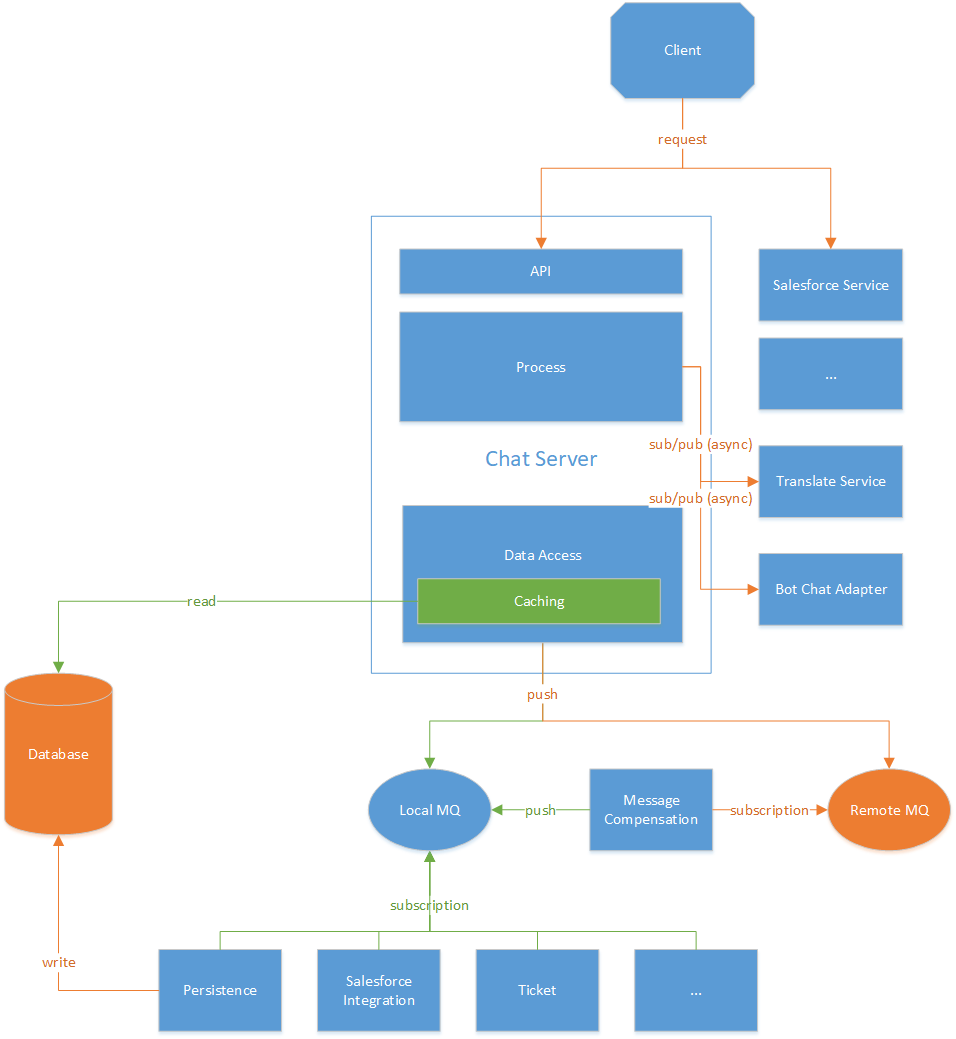
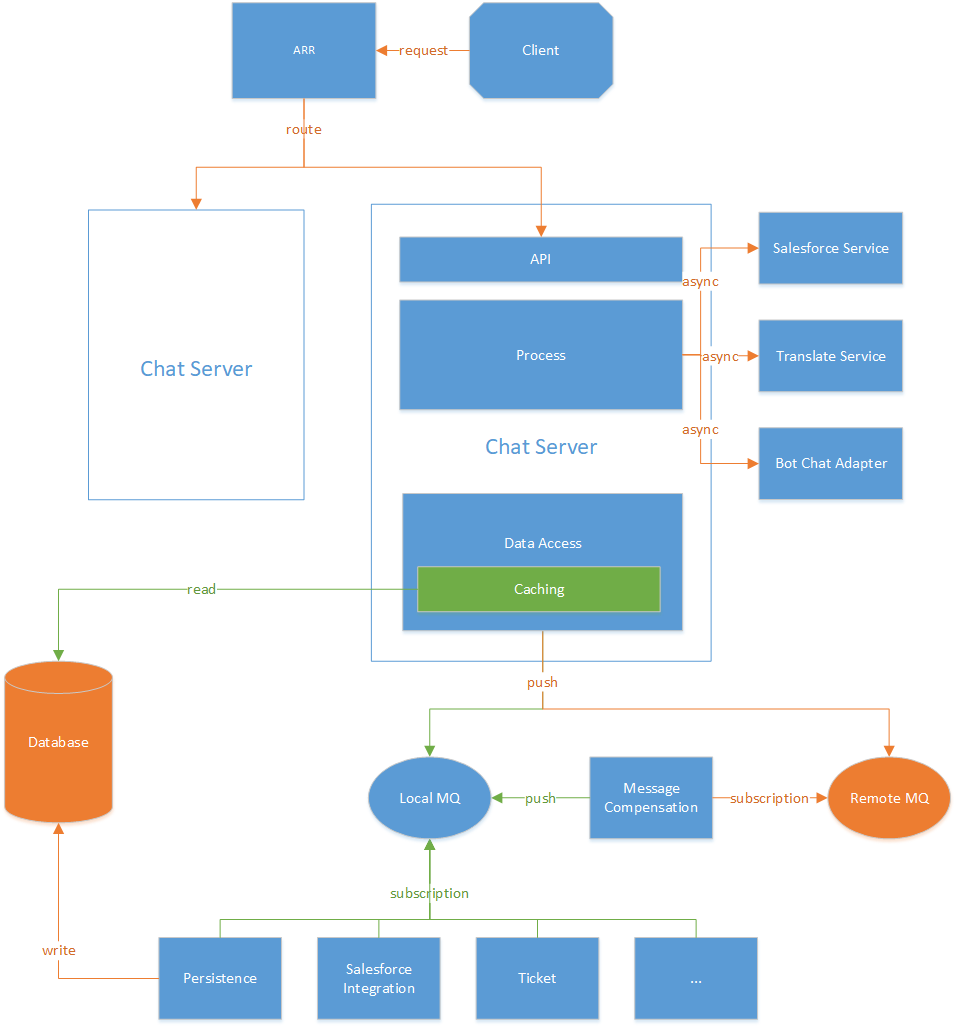
update chatserver-arch.md

diff --git a/she-ji/chat-server.md b/she-ji/chat-server.md
@@ -16,6 +16,7 @@
 2. 降低ChatServer对数据库的依赖, 使Chat Server可以无数据库运行
   - 配置数据使用缓存, Chat Server直接访问缓存
   - 写记录的同时写一条log, Chat Server根据log进行缓存的更新
+  - 
   + 限于实际情况, 目前版本保证用户聊天业务能够正常进行, 因此以下的功能在无数据库状态下不能支持:
     - Agent Console查看历史
     - Control Panel修改配置信息, 查看报表等
@@ -31,15 +32,17 @@
 
 ![topology](topology.png)
 
-1. 在MaxOn功能基础上, 部署分为主服务器, 以及备用服务器, 异地跨机房部署
-2. 主服务器上的各个主机在一个局域网内
+1. 在MaxOn功能基础上, 部署分为主部署, 以及MaximumOn部署, 异地跨机房部署
+2. 主部署上的各个主机在一个局域网内
   - 多套Web Server做Load-balance, 使用IIS ARR做load-balance控制器, 根据站点进行分流
+  - 多个ARR节点采用NLB做HA, ARR服务对SiteId进行分流, 不同的站点分到对应的Web Server上
   - 本地有一个MQ Server可以做消息队列管理
   - 本地有一个数据库服务存储数据
-3. 副服务器上部署一套程序
+3. 副部署因为实际使用比较少, 可以只部署一套程序, 不做Loadbalance
   - 部署一套Web应用
+  - 部署一个数据库服务, 从主部署中同步配置数据
   - 本地的MQ Server作为副服务器的消息队列管理
-4. 远程有一个MQ Service, 可以在本地消息服务失效时使用(MaxOn 主副使用同一个远程的MQ Server)
+4. 远程有一个MQ Service, 可以在本地消息服务失效时使用(主副部署可以使用同一个远程的MQ Server)
 
 
 ## ChatSrver架构 
@@ -97,14 +100,17 @@ Chat Server应用程序分3个模块: API, Process, DataAccess
     - Salesforce集成, Zendesk集成
 
 ### Load-balance
-1. Load-balance控制器(ARR)监控集群中的所有服务, 能够知道所有机器的服务状态
-2. Load-balance控制器采用相同的逻辑进行路由, 使得请求不管是到哪一台Load-balance控制器最后的路由结果都是一致的
+1. 集群中多台ARR服务器采用NLB对外提供统一的访问IP, 
+  - NLB配置为active-standby模式, 只有在一台ARR服务器出状况以后才会使用另一台ARR服务器
+2. Load-balance控制器(ARR)监控集群中的所有服务, 能够知道所有机器的服务状态
+3. Load-balance控制器采用相同的逻辑进行路由, 使得请求不管是到哪一台Load-balance控制器最后的路由结果都是一致的
   - 在添加节点时需要手工修改路由的计算逻辑参数
   - 在节点出问题以后会采用同样的分流逻辑来计算, 即将原来分到这个节点上的请求按照一定的逻辑均分到其他可用的节点
   - 在节点恢复以后, 再将原来是该节点的请求重新分配到该节点
-3. 单个Chat Server 应用程序作为Load-balance下面的一个节点可以关机, 使流量导向其他现在可用的节点
+  - 不在列表配置列表中的则按照特定的分流逻辑来计算(如取模)
+4. 单个Chat Server 应用程序作为Load-balance下面的一个节点可以关机, 使流量导向其他现在可用的节点
   - 在某一个Site从一个节点切到另一个节点时, 客户端应该在新的节点恢复聊天/访客信息
-4. 多个Chat Server产生的消息需要做去重(如chatEnded事件对于同一个id只会处理一次)
+5. 多个Chat Server产生的消息需要做去重(如chatEnded事件对于同一个id只会处理一次)
 
 
 ## 应用发布升级
@@ -198,11 +204,7 @@ MQ Name的定义由具体事件的namespace来定义, 如comm100.chatEnded, comm
 ### Service Broker Queue Distributor
 
   针对某些MQ可能会有很多的消费者需要同时消费, 在其上面会先有一个分发器的消费者消费一级事件, 然后再根据实际的业务分发二级的消息到MQ, 分发器可以根据站点配置决定是否要生成具体的二级事件, 如某一个站点没有开启Salesforce功能, 则不生成comm100.chatEnded.salesforce的message, 分发器实际为一级事件的消费者, 每一个处理二级事件的消费者实际上需要在分发器的配置上增加一个处理逻辑(主要为判断是否需要分发二级事件的判断逻辑, 以及二级事件的名称)
-
-### Service Broker Queue Consumer
-
-  采用waitfor命令获取消息
-
+  
 ### Queue 定义
 
 1. chat.end
@@ -265,8 +267,81 @@ MQ Name的定义由具体事件的namespace来定义, 如comm100.chatEnded, comm
 9. invitation.log 
 10. visit.log
 11. conversion.log
-12. agent.preference
-13. visitor.ban
+12. agent.savePreference
+13. agent.ban
 
 
+## 功能范围
+1. MaximumOn功能
+  - direct link/bbs code支持maximum on
+    - 从chat server分离访客端的前端功能 (下载js, 打开chat window)
+  - 副服务器支持所有的功能
+    - salesforce
+    - zendesk
+    - join.me
+    - update preference
+    - attach ticket
+  - 切换过程优化
+    - 从agnet和visitor两点进行聊天消息恢复, 避免丢掉聊天消息
+  - bot
+    - 同步bot配置数据, 使服务器可以支持bot功能
+    - 回迁bot数据(主要回迁消息队列的内容)
 
+
+2. 异步采用消息队列
+  - 数据库持久化
+  - 第三方集成调用
+  - 发邮件
+  - Webhook
+
+3. Chat Server支持无库运行
+  - 访客, 使用guid, 而不使用visitorId
+  - 聊天, 使用guid, 而不是从库里生成聊天使用id
+  - 配置缓存
+    - ChatServer启动时就加载最近一个月使用过或者注册的站点配置数据
+    - 站点的配置更新以后写一条log, ChatServer定时读取这个log记录, 更新站点的配置数据
+  - 消息队列
+    - Service Broker
+
+4. 锁颗粒度降低, 使用concurrent下面的数据结构
+  - 使用concurrentDictionary 以及 concurrentQueue
+  - 锁做到Visitor/Agent级别, 访问时按照一定顺序上锁
+    - 先对Visitor上锁, 然后再对Agent上锁
+      - Agent Logout, 需要在agent对象中维护当前正在聊天的访客列表, 然后不要嵌套执行
+    - 
+
+5. 状态恢复
+  - 访客/聊天状态恢复
+    - Visitor Info
+    - Salesforce Info
+      - Server端加密以后送给访客端保存, 采用固定的密钥进行加密, 再做一次以siteId为密钥的加密
+    - Custom Variable
+      - Server端加密以后放到访客端保存, 采用固定的密钥进行加密, 再做一次以siteId为密钥的加密
+    - SSO Id - 不能恢复
+      - 聊天, 普通聊天也需要重新要求登录
+      - Bot, intent如果需要登录的话可能需要再次登录
+    - Chat Info 
+      - Waiting - 由Visitor端恢复
+      - Chatting - 由Agent端和Visitor端一起恢复
+  - Agent状态恢复
+
+6. Tracking访客数量限制
+  - 维护tracking的列表, 只在生成访客时进队, 在访客超期以后出队
+    - Agent只获取在Tracking列表中的访客
+    - 如果访客不在Tracking列表中, 则禁用该访客的heartbeat功能, 只有在刷新页面时才会更新button状态
+    - 不在tracking列表中的访客其他功能正常, server端会同样有这部分访客
+
+7. 访客和聊天分开
+  - 单独获取waiting队列, 而不从原来的getAllVisitor接口获取
+  - 单独获取聊天的状态更新, 只获取自己的聊天以及有权限可以Join/Monitor的聊天
+
+
+8. 访客端前端功能 - MaximumOn支持
+  - 分离访客端获取js或者聊天窗口的功能到另一个应用
+    - https://chatserver.comm100.com/livechat.ashx - js入口, 使用在code, chat window中
+    - https://chatserver.comm100.com/chatwindow.aspx - 聊天窗口, 可能使用在direct link 或者mobile sdk中
+    - https://chatserver.comm100.com/chatwindowmobile.aspx - 旧的手机访客端聊天窗口, 使用在客户的app中
+    - https://chatserver.comm100.com/bbs.aspx?siteId={siteId}&planId={planId} - bbs 图片, 使用在bbs code中
+      - 直接跳转主或者副服务器
+
+## 登录模块的HA, 暂不支持
